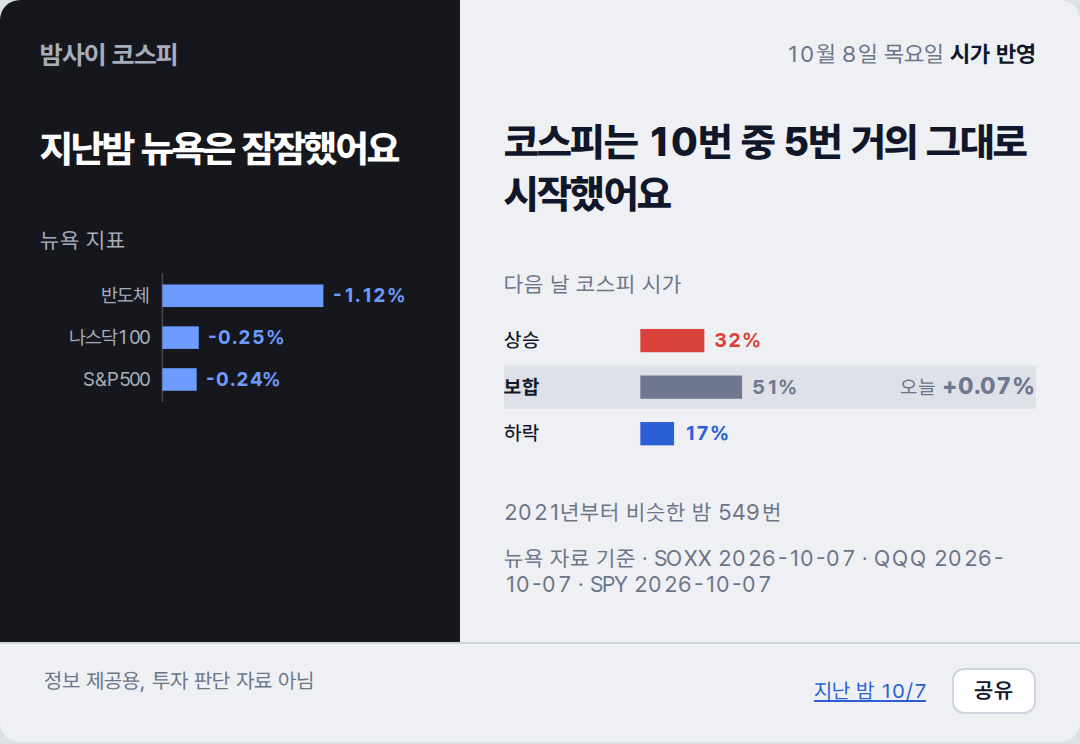
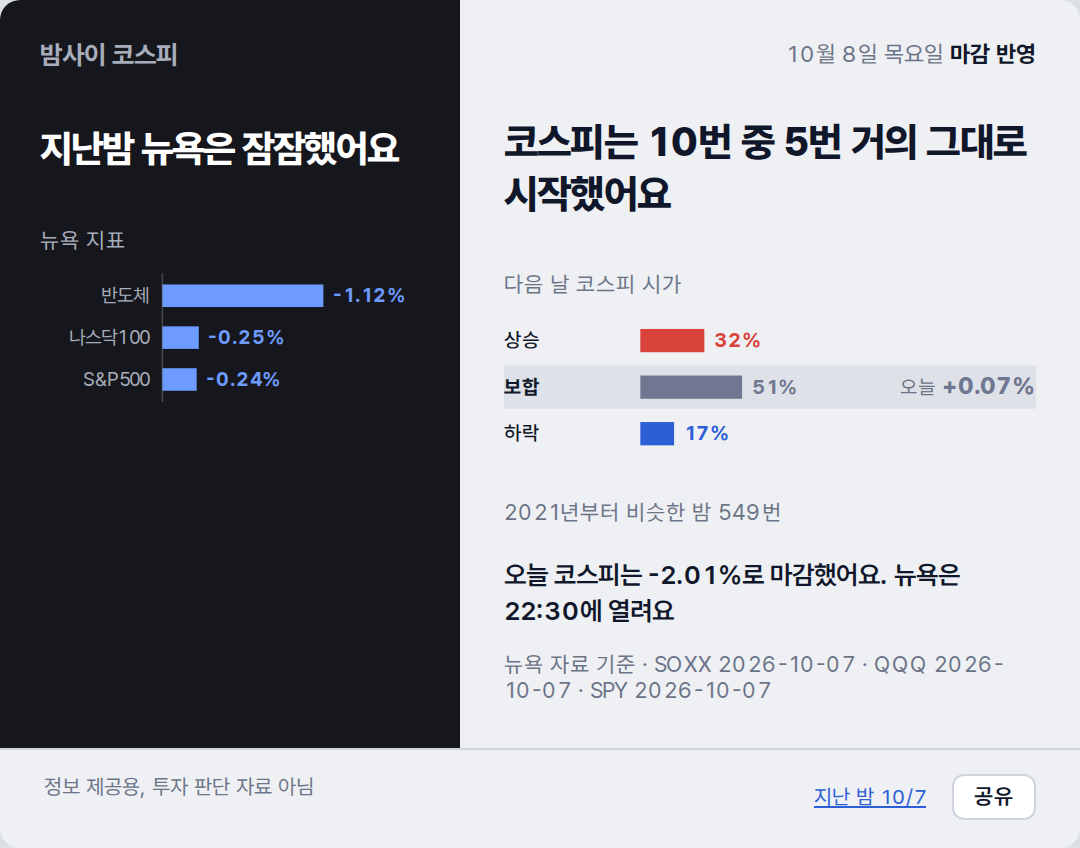
deploy: c0d07a214321b41f7cf333fef670b17ffe5b5852

diff --git a/2026-10-08/index.html b/2026-10-08/index.html
@@ -38,7 +38,7 @@ footer a{color:#2C5FD6}
 <rect x="76" y="61" width="21.3" height="14" fill="var(--down)"/>
 <text x="103.3" y="72" fill="var(--down)" font-weight="700">-0.24%</text>
 </svg></section>
-<section class="day"><p class="stamp">10월 8일 목요일 <b>시가 반영</b></p><p class="claim">코스피는 10번 중 5번 거의 그대로 시작했어요</p><p class="lab">다음 날 코스피 시가</p><svg viewBox="0 0 320 100" xmlns="http://www.w3.org/2000/svg" font-family="var(--sans)" font-size="12">
+<section class="day"><p class="stamp">10월 8일 목요일 <b>마감 반영</b></p><p class="claim">코스피는 10번 중 5번 거의 그대로 시작했어요</p><p class="lab">다음 날 코스피 시가</p><svg viewBox="0 0 320 100" xmlns="http://www.w3.org/2000/svg" font-family="var(--sans)" font-size="12">
 <text x="0" y="20" fill="var(--ink)" font-weight="500">상승</text>
 <rect x="82" y="9" width="38.5" height="14" fill="var(--up)"/>
 <text x="126.5" y="20" fill="var(--up)" font-weight="700">32%</text>
@@ -50,7 +50,7 @@ footer a{color:#2C5FD6}
 <text x="0" y="76" fill="var(--ink)" font-weight="500">하락</text>
 <rect x="82" y="65" width="20.3" height="14" fill="var(--down)"/>
 <text x="108.3" y="76" fill="var(--down)" font-weight="700">17%</text>
-</svg><p class="cap">2021년부터 비슷한 밤 549번</p><p class="cap">뉴욕 자료 기준 · SOXX 2026-10-07 · QQQ 2026-10-07 · SPY 2026-10-07</p></section>
+</svg><p class="cap">2021년부터 비슷한 밤 549번</p><p class="tail">오늘 코스피는 -2.01%로 마감했어요. 뉴욕은 22:30에 열려요</p><p class="cap">뉴욕 자료 기준 · SOXX 2026-10-07 · QQQ 2026-10-07 · SPY 2026-10-07</p></section>
 <footer><span>정보 제공용, 투자 판단 자료 아님</span><span style="white-space:nowrap"><a href="../2026-10-07/">지난 밤 10/7</a> <button class="share" type="button">공유</button></span></footer>
 <script>
 /* 공유: Web Share가 있으면 시스템 공유 시트, 없으면 링크 복사. 링크는 이 날짜 페이지(OG 카드 붙음) */

diff --git a/index.html b/index.html
@@ -38,7 +38,7 @@ footer a{color:#2C5FD6}
 <rect x="76" y="61" width="21.3" height="14" fill="var(--down)"/>
 <text x="103.3" y="72" fill="var(--down)" font-weight="700">-0.24%</text>
 </svg></section>
-<section class="day"><p class="stamp">10월 8일 목요일 <b>시가 반영</b></p><p class="claim">코스피는 10번 중 5번 거의 그대로 시작했어요</p><p class="lab">다음 날 코스피 시가</p><svg viewBox="0 0 320 100" xmlns="http://www.w3.org/2000/svg" font-family="var(--sans)" font-size="12">
+<section class="day"><p class="stamp">10월 8일 목요일 <b>마감 반영</b></p><p class="claim">코스피는 10번 중 5번 거의 그대로 시작했어요</p><p class="lab">다음 날 코스피 시가</p><svg viewBox="0 0 320 100" xmlns="http://www.w3.org/2000/svg" font-family="var(--sans)" font-size="12">
 <text x="0" y="20" fill="var(--ink)" font-weight="500">상승</text>
 <rect x="82" y="9" width="38.5" height="14" fill="var(--up)"/>
 <text x="126.5" y="20" fill="var(--up)" font-weight="700">32%</text>
@@ -50,7 +50,7 @@ footer a{color:#2C5FD6}
 <text x="0" y="76" fill="var(--ink)" font-weight="500">하락</text>
 <rect x="82" y="65" width="20.3" height="14" fill="var(--down)"/>
 <text x="108.3" y="76" fill="var(--down)" font-weight="700">17%</text>
-</svg><p class="cap">2021년부터 비슷한 밤 549번</p><p class="cap">뉴욕 자료 기준 · SOXX 2026-10-07 · QQQ 2026-10-07 · SPY 2026-10-07</p></section>
+</svg><p class="cap">2021년부터 비슷한 밤 549번</p><p class="tail">오늘 코스피는 -2.01%로 마감했어요. 뉴욕은 22:30에 열려요</p><p class="cap">뉴욕 자료 기준 · SOXX 2026-10-07 · QQQ 2026-10-07 · SPY 2026-10-07</p></section>
 <footer><span>정보 제공용, 투자 판단 자료 아님</span><span style="white-space:nowrap"><a href="./2026-10-07/">지난 밤 10/7</a> <button class="share" type="button">공유</button></span></footer>
 <script>
 /* 공유: Web Share가 있으면 시스템 공유 시트, 없으면 링크 복사. 링크는 이 날짜 페이지(OG 카드 붙음) */
